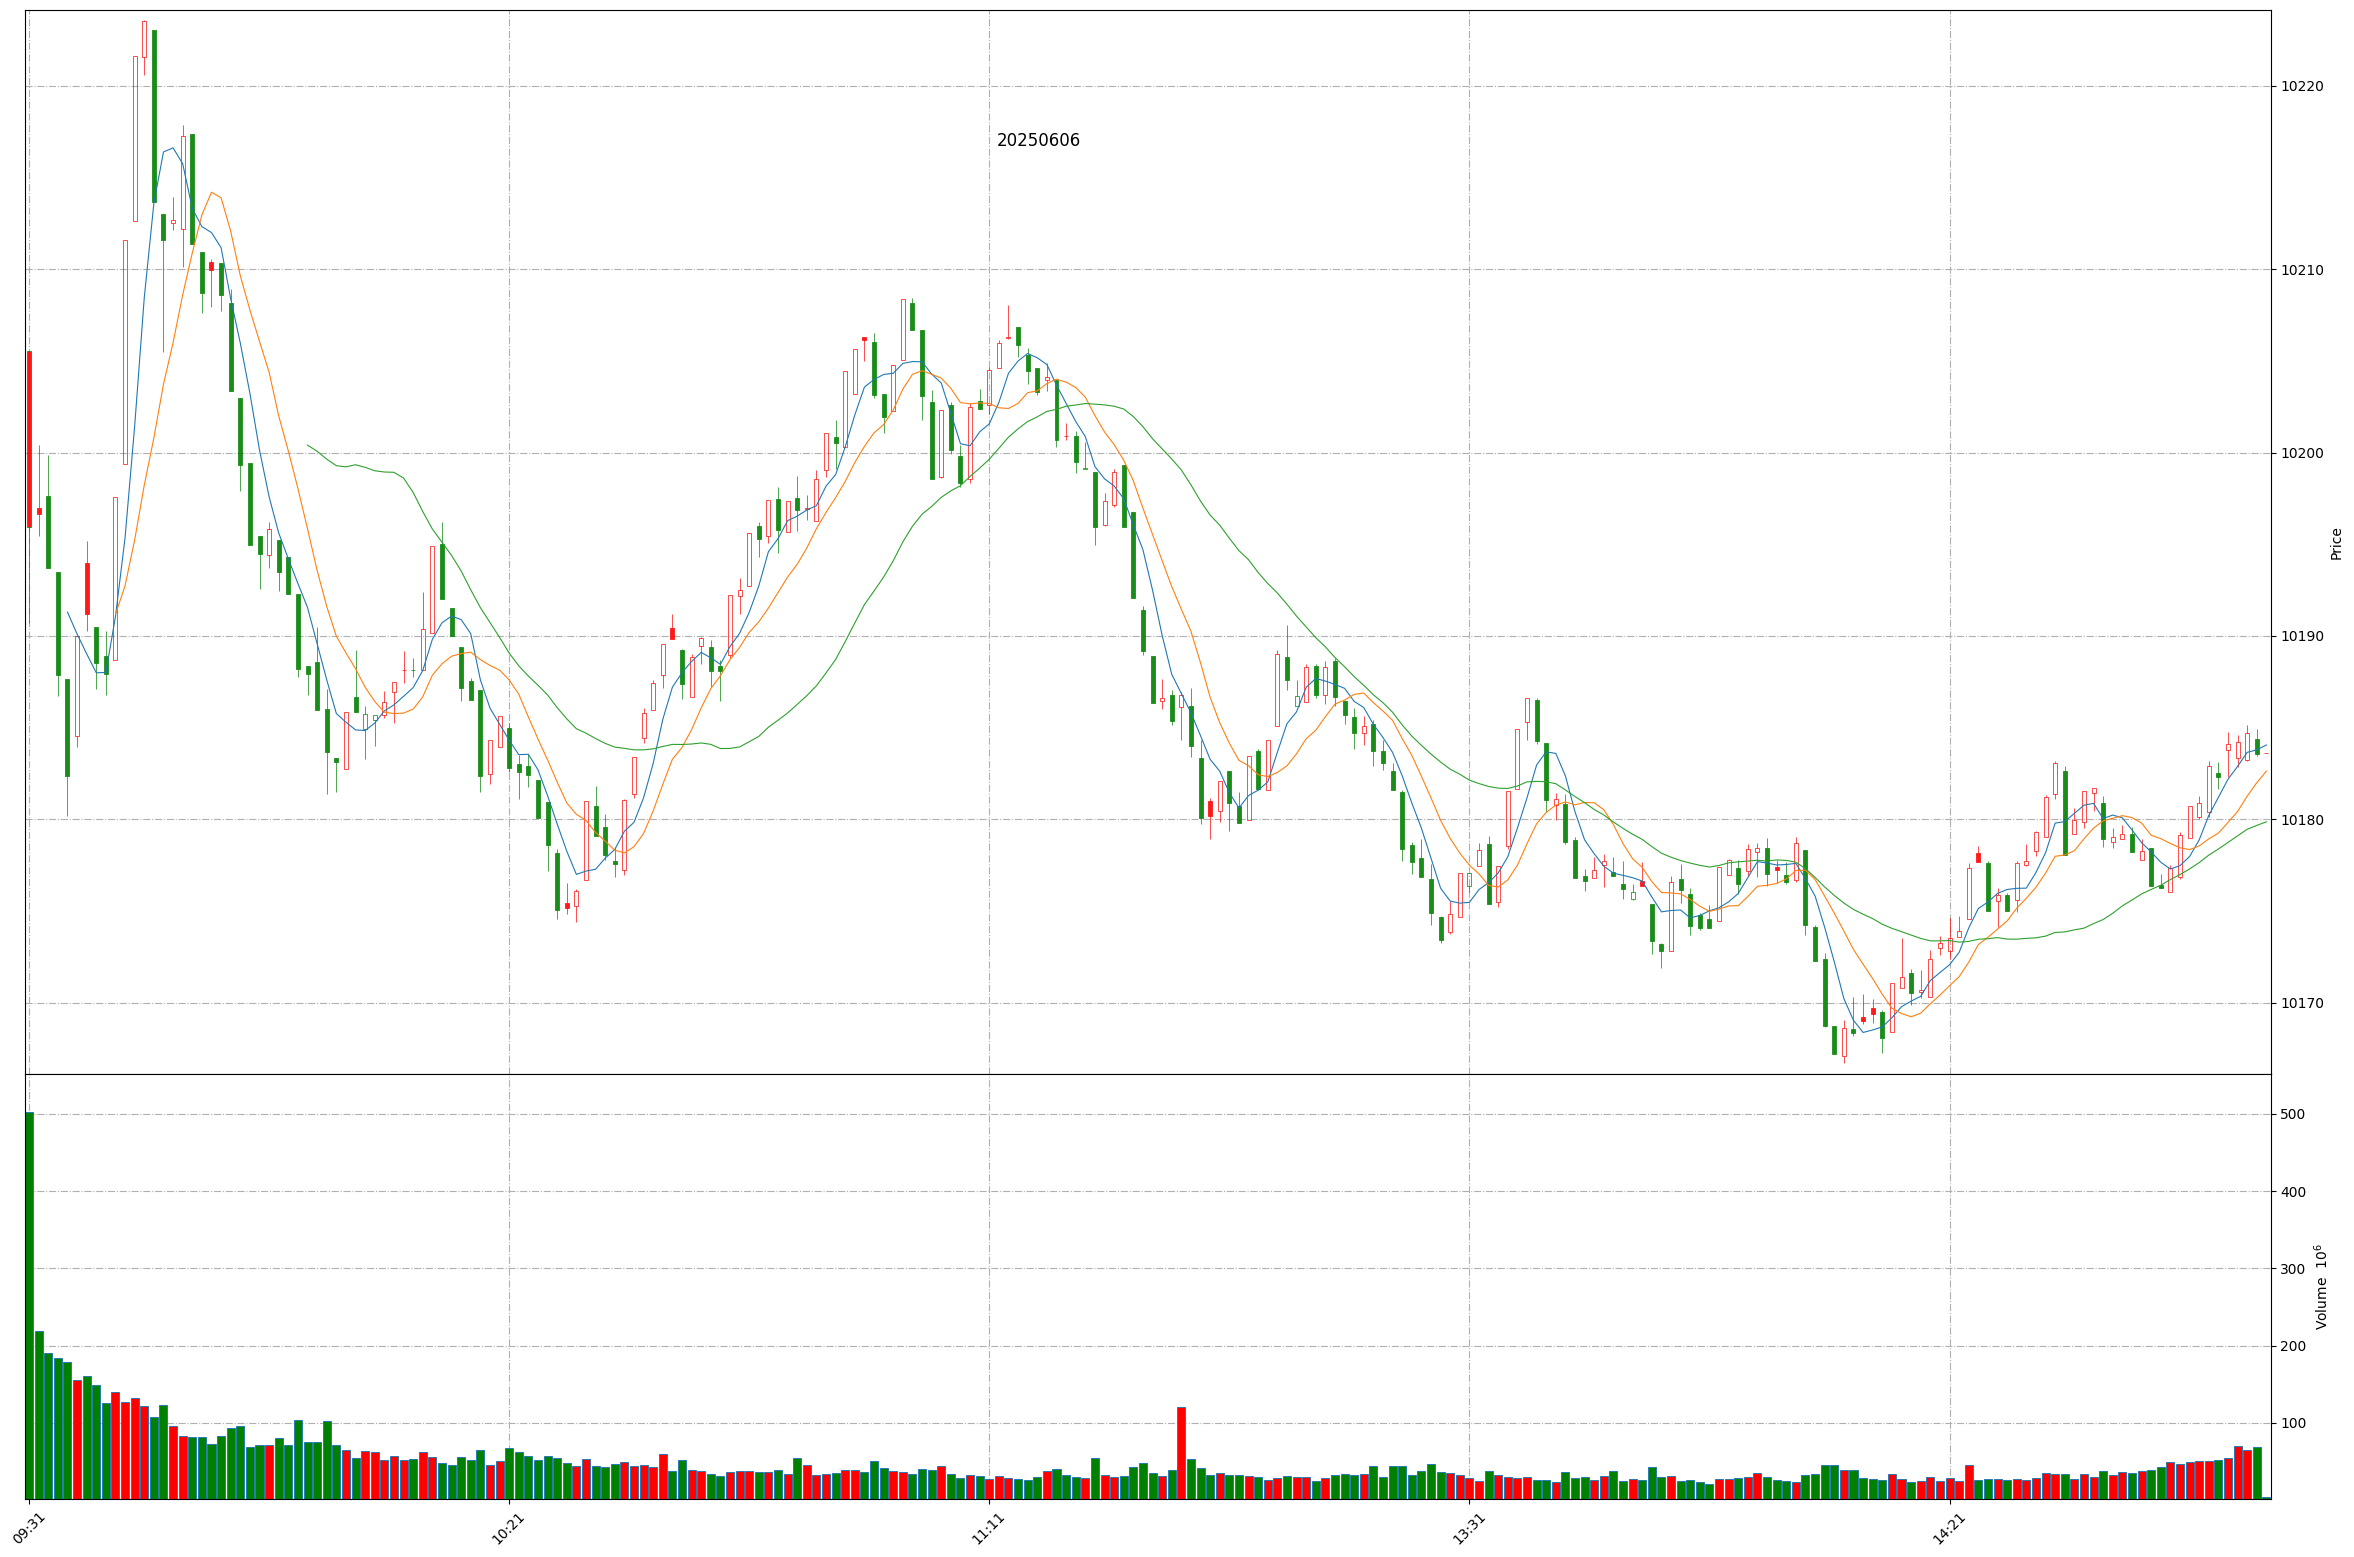
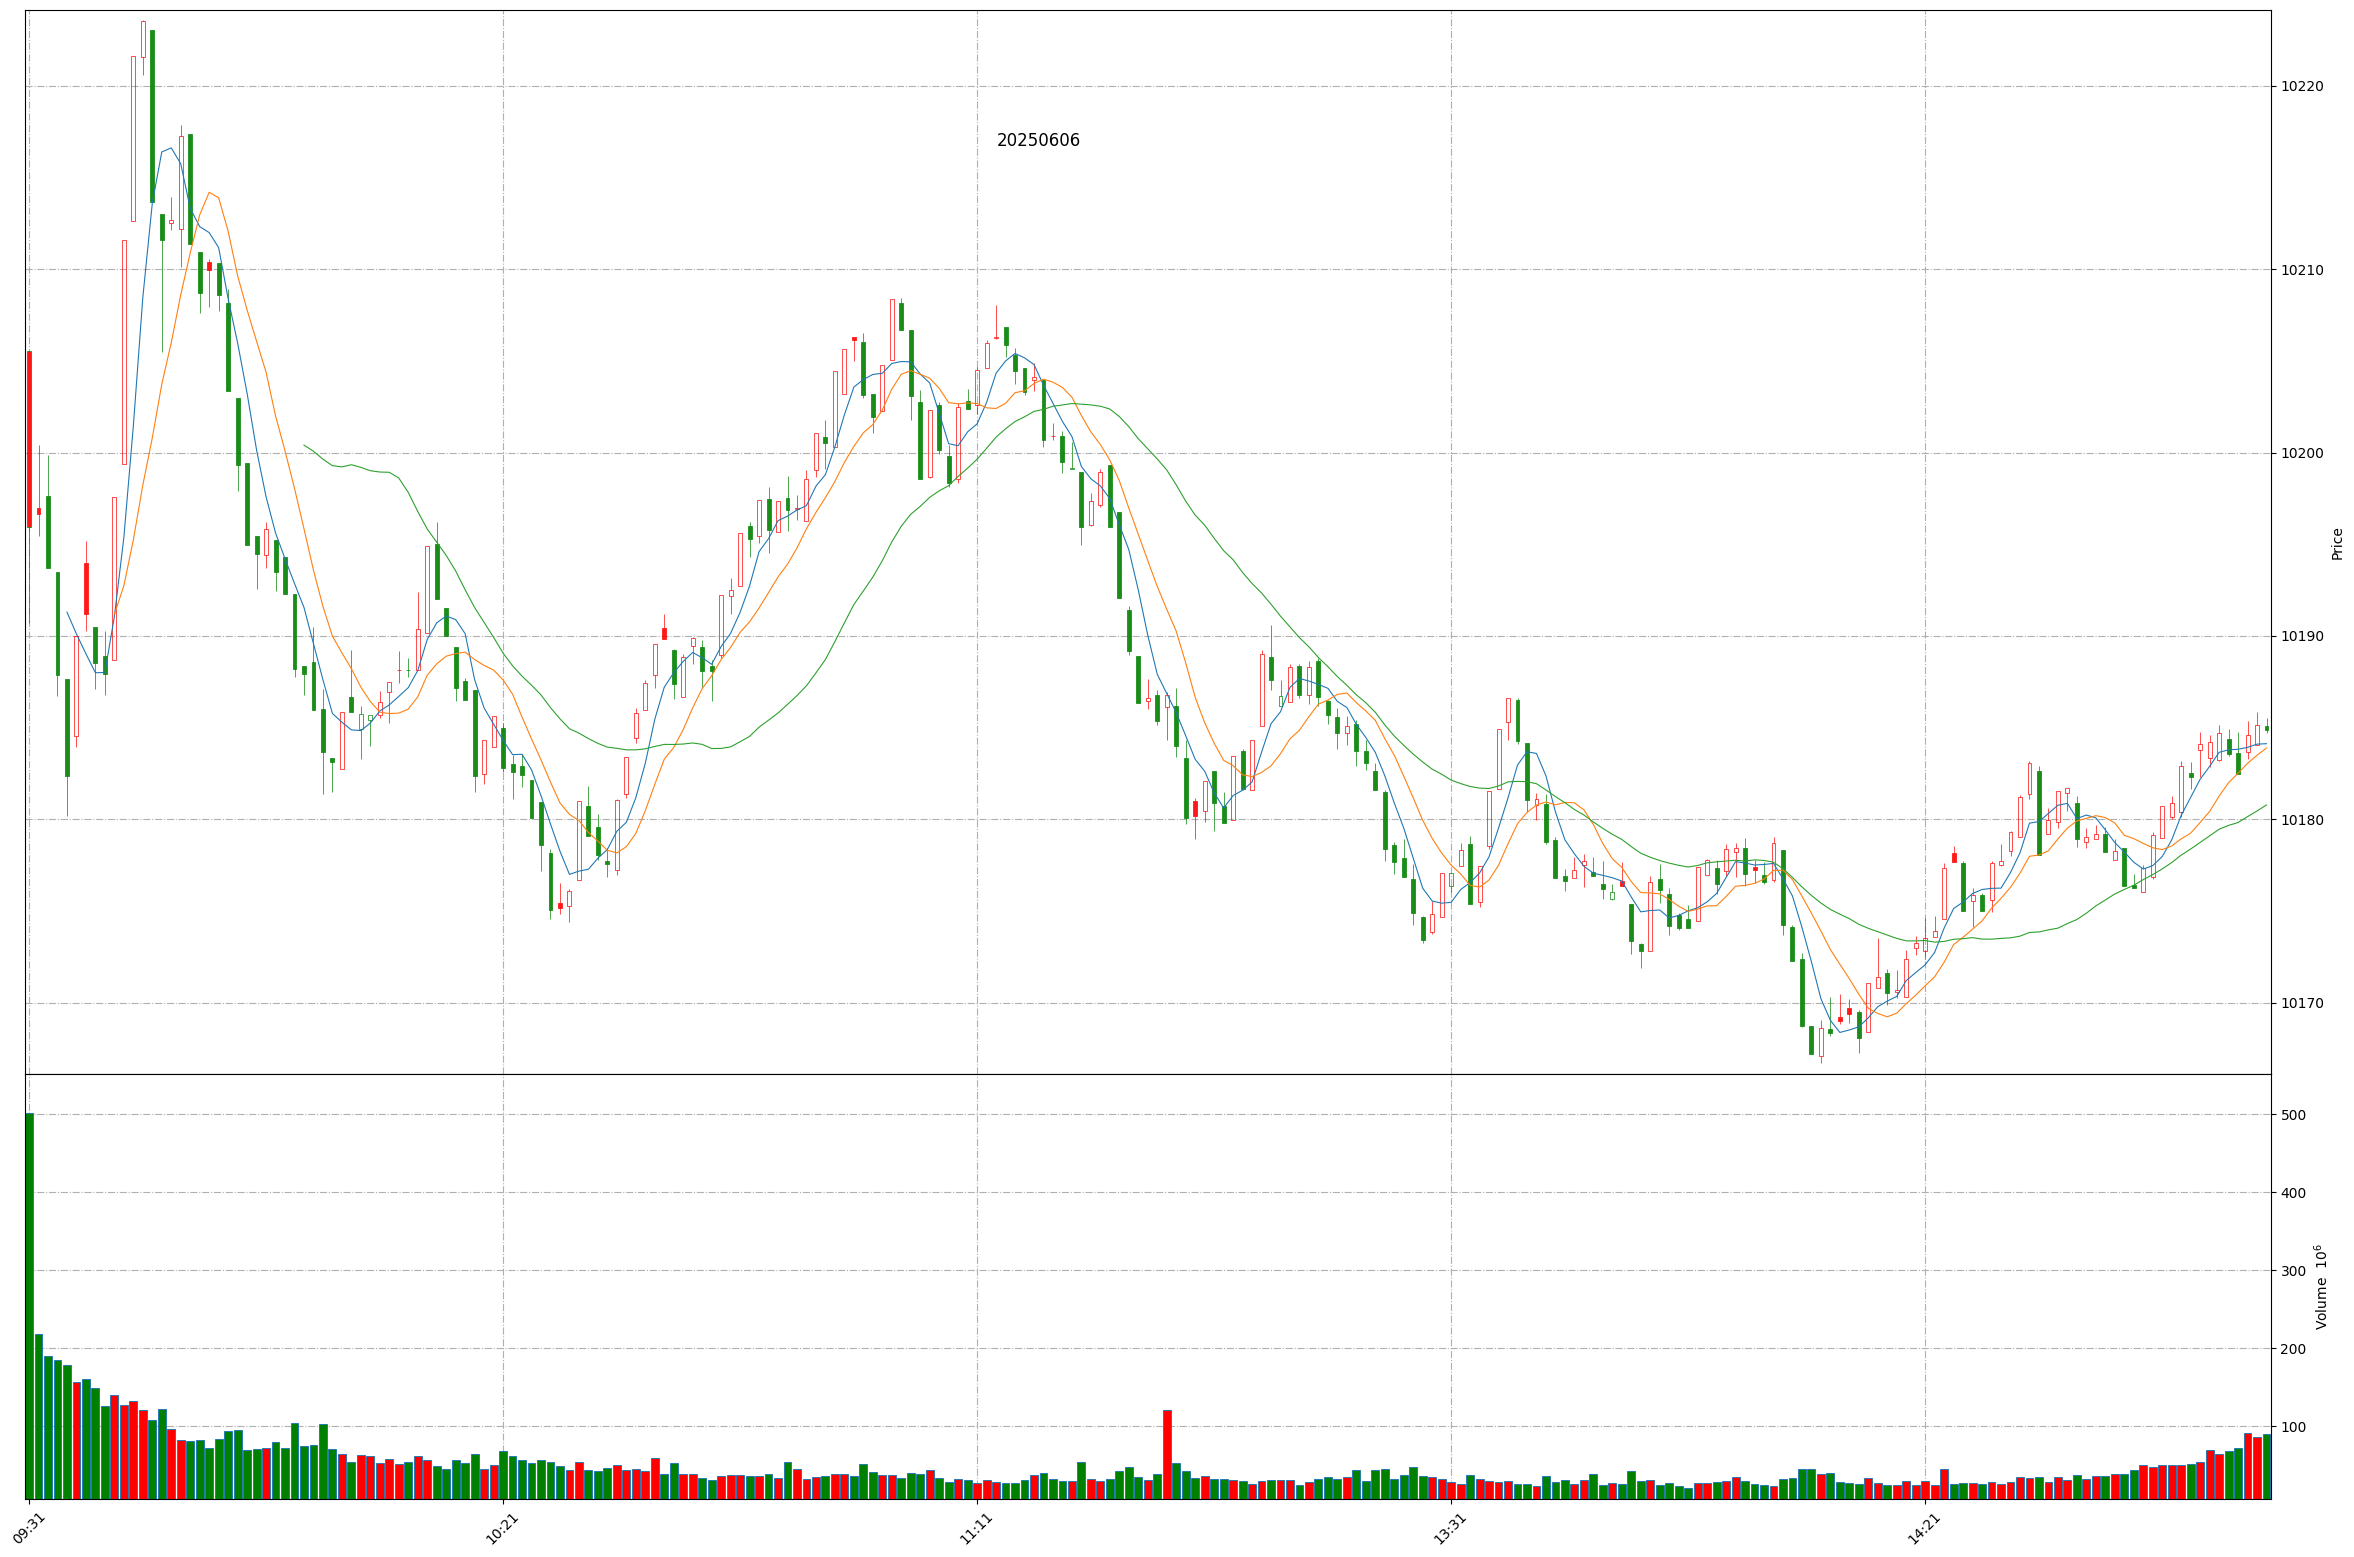
Github action update at 2025-06-06 14:56:58.

diff --git a/README.md b/README.md
@@ -1,11 +1,11 @@
 
 # Daily-A-share-market-quotes 每日 A 股指数（5min 更新）- 20250606
 
-### 上证指数 20250606 14:53
+### 上证指数 20250606 14:56
 ![](./fig/2025/6/20250606-sh000001.png)
 
-### 深证成指 20250606 14:53
+### 深证成指 20250606 14:56
 ![](./fig/2025/6/20250606-sz399001.png)
 
-### 北证50 20250606 14:53
+### 北证50 20250606 14:56
 ![](./fig/2025/6/20250606-bj899050.png)
